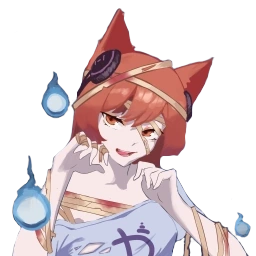
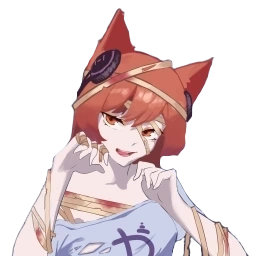
Do a cool animation for the blue wisps

diff --git a/webroot/main.css b/webroot/main.css
@@ -13,6 +13,10 @@
 	--button-color-hover: white;
 	--fat-box-background: rgba(255, 255, 255, 0.6);
 	--text-color: #282828;
+	--light-visibility: visible;
+	--dark-visibility: hidden;
+	--light-display: unset;
+	--dark-display: none;
 }
 
 *, input {
@@ -51,6 +55,7 @@ body {
 }
 
 .container {
+	position: relative;
 	background: var(--main-gradient);
 	height: 100%;
 	animation: bg-light 1s ease 0s 1 normal forwards;
@@ -70,6 +75,10 @@ body {
 	--button-color-hover: black;
 	--fat-box-background: rgba(0, 0, 0, 0.6);
 	--text-color: #d6d6d6;
+	--light-visibility: hidden;
+	--dark-visibility: visible;
+	--light-display: none;
+	--dark-display: inline;
 
 	animation: bg-dark 1s ease 0s 1 normal forwards;
 }
@@ -152,7 +161,21 @@ button[type="submit"] {
 	font-size: 32px;
 }
 
-.landing img.landing-image {
+.dark {
+	visibility: var(--dark-visibility);
+	display: var(--dark-display);
+}
+
+.light {
+	visibility: var(--light-visibility);
+	display: var(--light-display);
+}
+
+.landing .landing-image {
+	position: relative;
+	display: block;
+	margin-left: auto;
+	margin-right: auto;
 	mask-image: linear-gradient(to bottom, rgb(0, 0, 0) 88%, rgba(0, 0, 0, 0.9) 90%, rgba(0, 0, 0, 0.5) 95%, rgba(0, 0, 0, 0));
 	-webkit-mask-image: linear-gradient(to bottom, rgb(0, 0, 0) 88%, rgba(0, 0, 0, 0.9) 90%, rgba(0, 0, 0, 0.5) 95%, rgba(0, 0, 0, 0));
 	width: 256px;
@@ -618,4 +641,31 @@ button[type="submit"] {
 
 div.about form button[type="submit"] {
 	color: var(--text-color);
+}
+
+img.flame1 {
+	height: 100px;
+	width: auto;
+	position: absolute;
+	left: -30px;
+	bottom: 20px;
+	z-index: 50;
+}
+
+img.flame2 {
+	height: 75px;
+	width: auto;
+	position: absolute;
+	left: 20px;
+	top: 40px;
+	z-index: 50;
+}
+
+img.flame3 {
+	height: 40px;
+	width: auto;
+	position: absolute;
+	right: 20px;
+	bottom: 40px;
+	z-index: 50;
 }

diff --git a/webroot/index.html b/webroot/index.html
@@ -32,15 +32,37 @@
 				</a>
 			</nav>
 			<div class="landing">
-				<img class="landing-image" alt="Amanda, a red-haired cat girl with headphones and a white shirt smiling at the viewer" src="/images/amanda-mummy.webp" />
-				<p>Amanda#8293</p>
-				<p>A qt music bot made for qts:
+				<div class="landing-image">
+					<img class="light" alt="Amanda, a red-haired cat girl with headphones and a white shirt smiling at the viewer" src="/images/amanda-mummy.webp" />
+					<img class="dark" alt="Amandark, a dark purple-haired cat girl with headphones and a grey shirt gritting her teeth at the viewer" src="/images/amandark-mummy.webp" />
+					<img class="flame1" alt="animated fire" src="/images/flame.webp" />
+					<img class="flame2" alt="animated fire" src="/images/flame.webp" />
+					<img class="flame3" alt="animated fire" src="/images/flame.webp" />
+				</div>
+				<br>
+				<br>
+				<p class="light">Amanda#8293</p>
+				<p class="dark">????</p>
+				<br>
+				<br>
+				<p class="light">A qt music bot made for qts:
 						<br>Amanda can play music, games, manage an economy, and so much more.
 						<br>But most importantly: cat pictures.
 						<br>Let there be cats! ༼ つ ◕ヮ◕ ༽つ
 				</p>
-				<div>
+				<p class="dark">Ugh.. Why are you here?
+					<br>I think you may have gotten lost.
+					<br>If you're looking for the popular one,
+					<br>go back to light mode.
+				</p>
+				<br>
+				<br>
+				<div class="light">
 					<a class="pinkbutton" href="https://amanda.moe/to/add">Add Amanda</a>
+					<a class="pinkbutton" href="https://amanda.moe/to/server">Join our server</a>
+				</div>
+				<div class="dark">
+					<a class="pinkbutton">Coming soon???</a>
 					<a class="pinkbutton" href="https://amanda.moe/to/server">Join our server</a>
 				</div>
 			</div>
